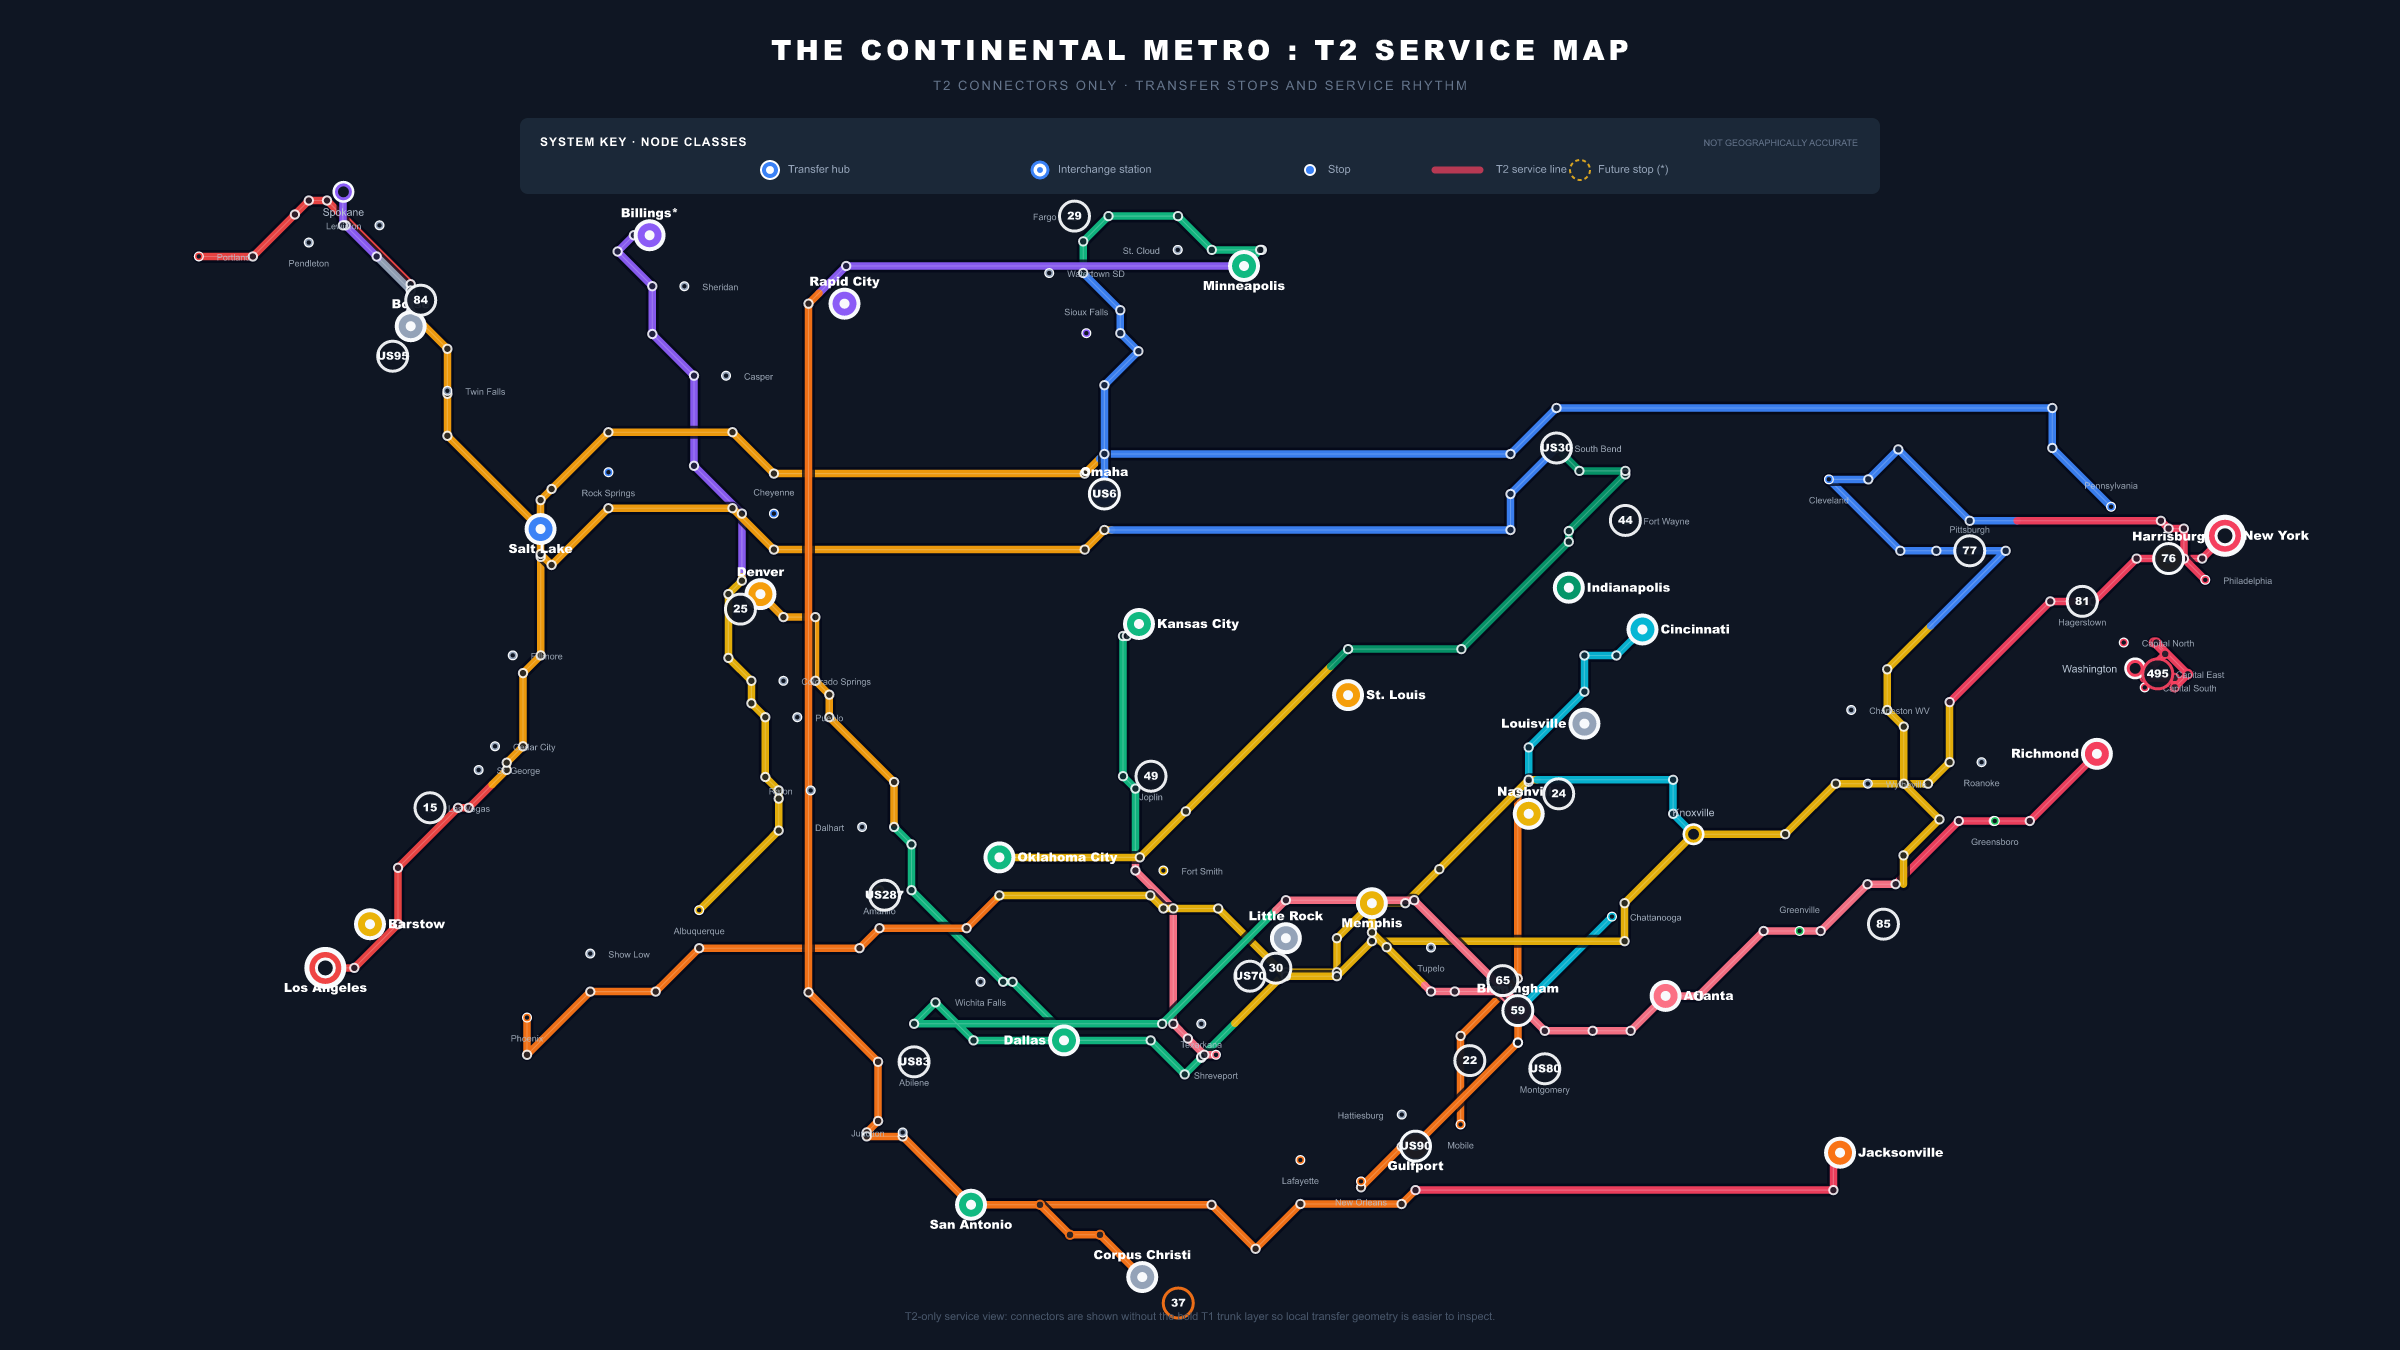
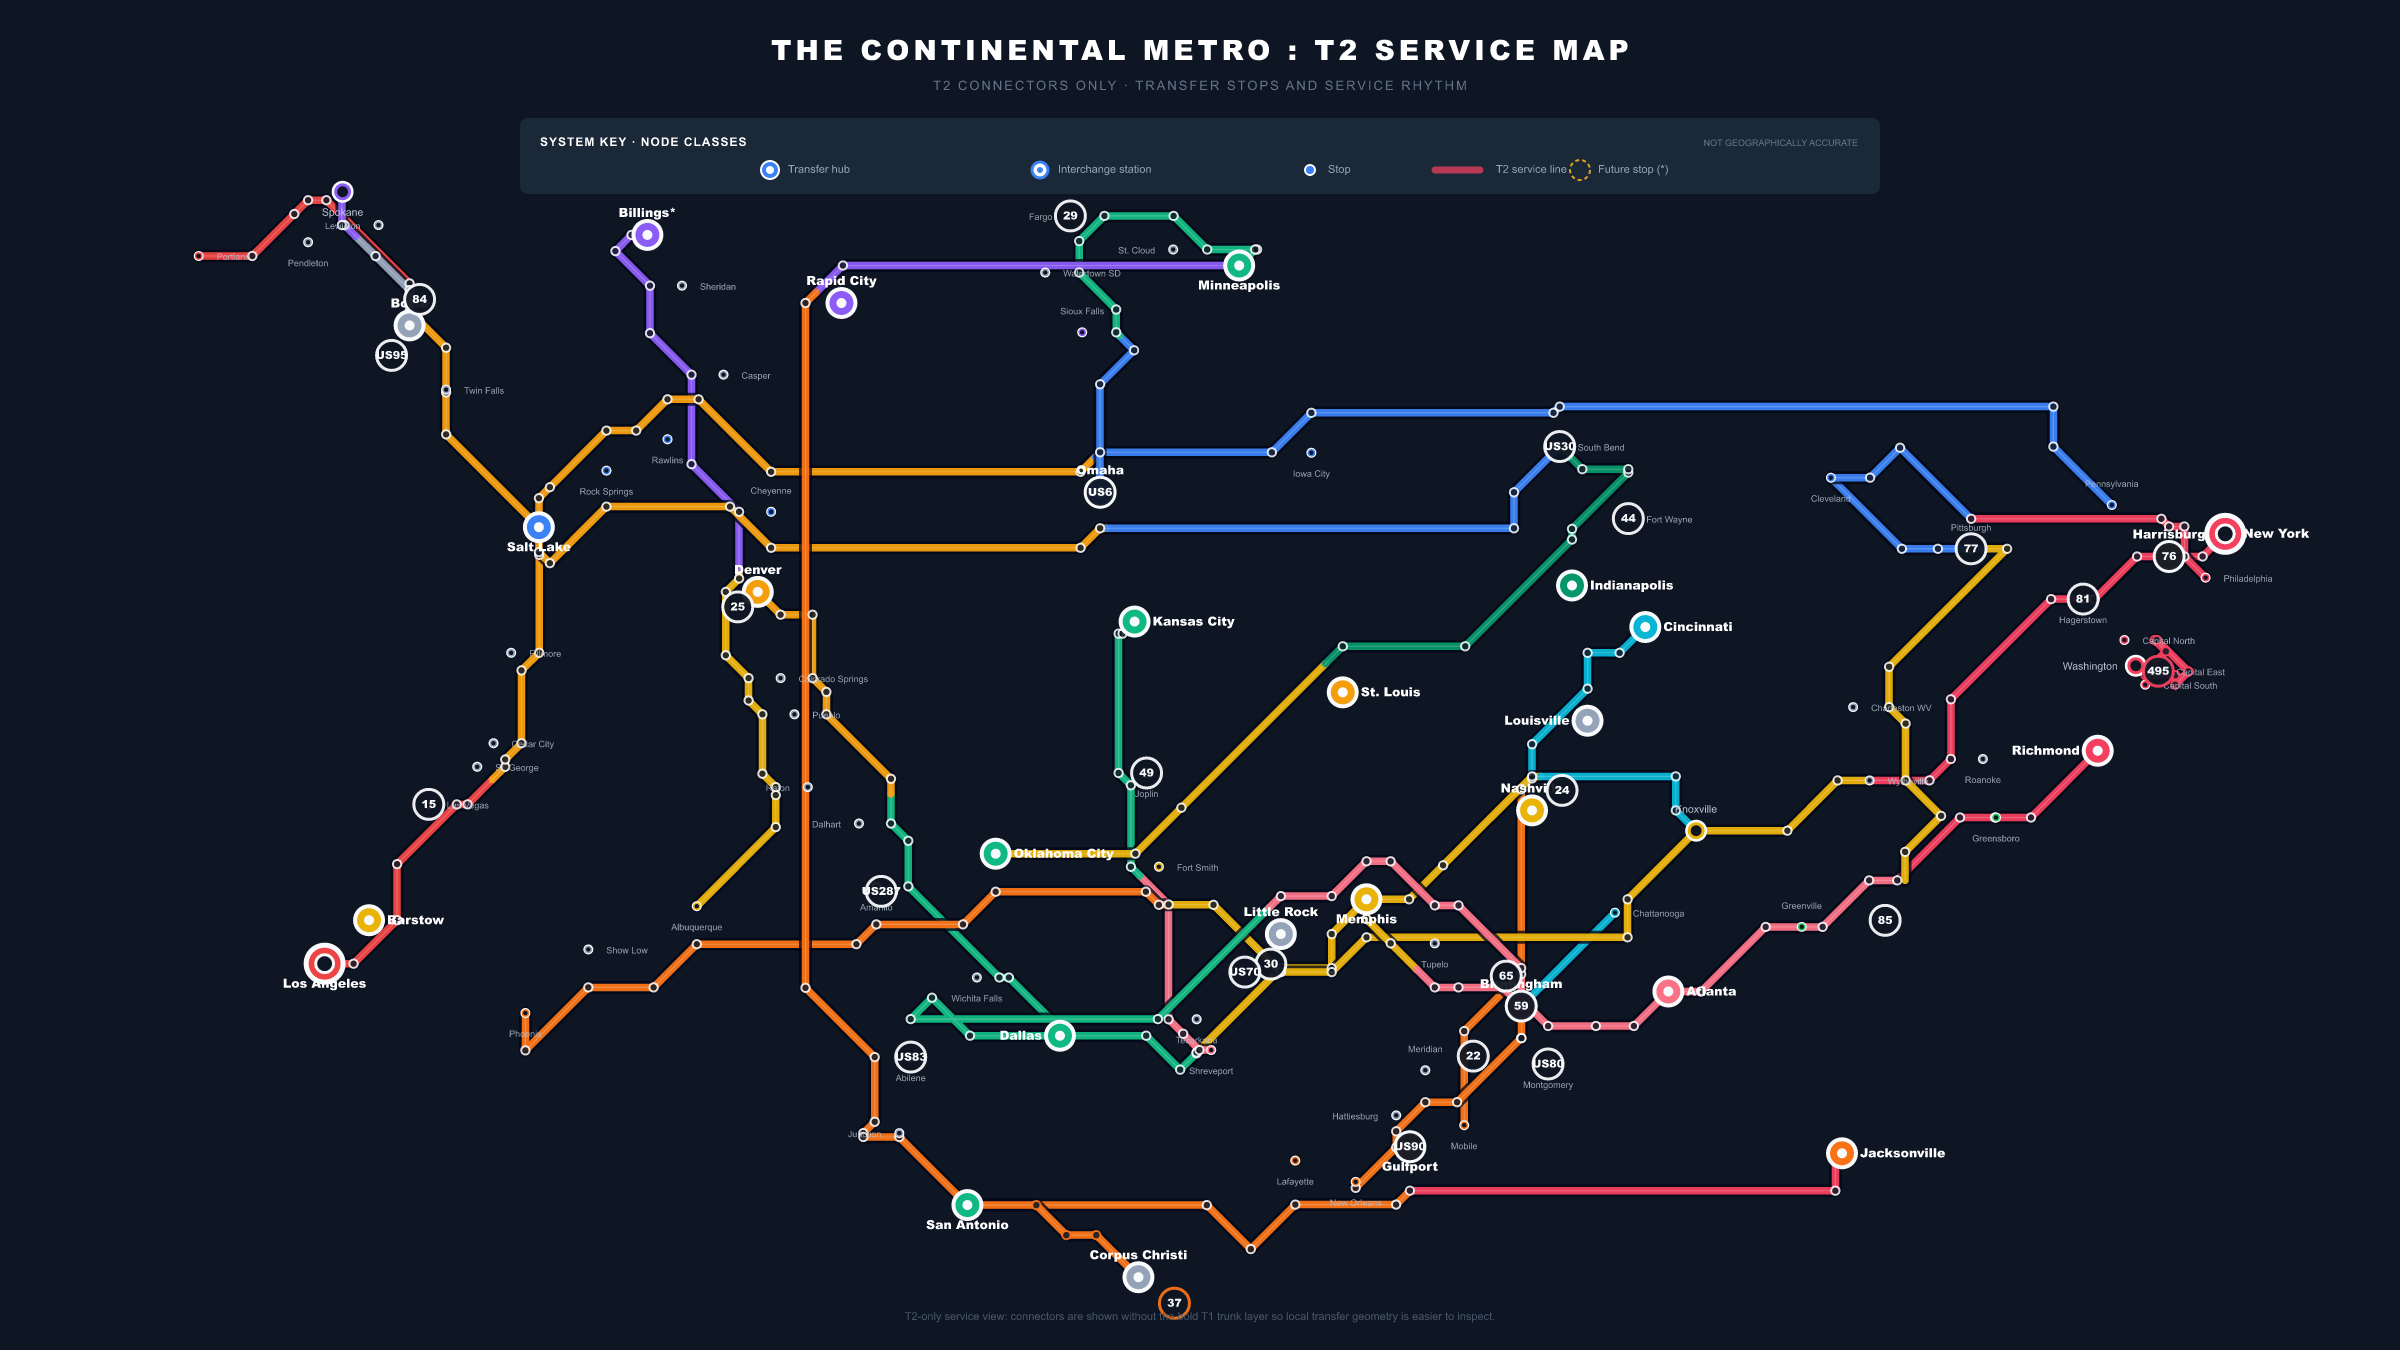
Clean up T2 Beck split anchors and stop rhythm

diff --git a/crates/route-map/src/beck.rs b/crates/route-map/src/beck.rs
@@ -60,6 +60,10 @@ impl BeckStop {
     fn point(&self) -> (f64, f64) {
         (self.x, self.y)
     }
+
+    fn is_transfer_point(&self) -> bool {
+        self.is_hub || self.is_interchange || self.lines.len() >= 2
+    }
 }
 
 #[derive(Debug, Clone)]
@@ -509,6 +513,14 @@ fn beck_stops() -> Vec<BeckStop> {
             960.0,
             &["I-59"],
             LabelDir::Left,
+        ),
+        minor_stop(
+            "MERIDIAN",
+            "Meridian",
+            1320.0,
+            960.0,
+            &["I-59"],
+            LabelDir::Up,
         ),
         minor_stop(
             "TALLAHASSEE",
@@ -1624,6 +1636,7 @@ fn geo_proxy(stop: &BeckStop) -> (f64, f64) {
         "LAFAYETTE" => (30.22, -92.02),
         "NOLA" => (29.95, -90.07),
         "HATTIESBURG" => (31.33, -89.29),
+        "MERIDIAN" => (32.36, -88.70),
         "TALLAHASSEE" => (30.44, -84.28),
         "PANAMA_CITY" => (30.16, -85.66),
         "JAX" => (30.33, -81.66),
@@ -2193,7 +2206,13 @@ fn t2_line_segments(stops: &[BeckStop]) -> Vec<T2LineSegment> {
             "I-59",
             "I-10",
             "I-75",
-            &["NOLA", "HATTIESBURG", "BHM_APPROACH", "CHATTANOOGA"],
+            &[
+                "NOLA",
+                "HATTIESBURG",
+                "MERIDIAN",
+                "BHM_APPROACH",
+                "CHATTANOOGA",
+            ],
             "Birmingham Spur",
             "BHM_APPROACH",
             (0.0, 0.0),
@@ -2275,8 +2294,10 @@ fn t2_line_segments(stops: &[BeckStop]) -> Vec<T2LineSegment> {
             &[
                 "SLC",
                 "ROCK_SPRINGS",
+                "RAWLINS",
                 "CHEYENNE",
                 "OMAHA",
+                "IOWA_CITY",
                 "CHI_APPROACH",
                 "PA_APPROACH",
             ],
@@ -2362,7 +2383,16 @@ fn t2_line_segments(stops: &[BeckStop]) -> Vec<T2LineSegment> {
             "US80",
             "I-35",
             "I-20",
-            &["DAL", "ABILENE", "LITTLE_ROCK", "MONTGOMERY", "ATL"],
+            &[
+                "DAL",
+                "ABILENE",
+                "LITTLE_ROCK",
+                "MEM",
+                "TUPELO",
+                "BHM_APPROACH",
+                "MONTGOMERY",
+                "ATL",
+            ],
             "Old South",
             "MONTGOMERY",
             (0.0, 0.0),
@@ -2530,7 +2560,7 @@ pub fn beck_t2_diagnostics() -> Vec<BeckT2DiagnosticRow> {
                 .iter()
                 .filter(|id| {
                     let stop = stop_by_id(&stops, id);
-                    stop.is_hub || stop.is_interchange
+                    stop.is_transfer_point()
                 })
                 .count();
             let label_density_per_100px = if schematic_length_px > 0.0 {
@@ -2787,17 +2817,26 @@ fn t2_split_anchor_distance(line: &T2LineSegment, stops: &[BeckStop]) -> Option<
 
     let mut walked = 0.0;
     let mut best: Option<T2SplitAnchor> = None;
+    let mut fallback: Option<T2SplitAnchor> = None;
     for index in 1..line.stop_ids.len() - 1 {
         walked += ((line.waypoints[index].0 - line.waypoints[index - 1].0).powi(2)
             + (line.waypoints[index].1 - line.waypoints[index - 1].1).powi(2))
         .sqrt();
         let stop = stop_by_id(stops, line.stop_ids[index]);
-        if !(stop.is_hub || stop.is_interchange) {
-            continue;
-        }
         let fraction = walked / raw_length;
         let offset = (fraction - 0.5).abs();
-        if offset > 0.22 {
+        if offset <= 0.32
+            && fallback
+                .as_ref()
+                .map(|anchor| offset < (anchor.fraction - 0.5).abs())
+                .unwrap_or(true)
+        {
+            fallback = Some(T2SplitAnchor {
+                stop_id: stop.id,
+                fraction,
+            });
+        }
+        if !stop.is_transfer_point() || offset > 0.22 {
             continue;
         }
         let replace = best
@@ -2811,7 +2850,7 @@ fn t2_split_anchor_distance(line: &T2LineSegment, stops: &[BeckStop]) -> Option<
             });
         }
     }
-    best
+    best.or(fallback)
 }
 
 fn unstopped_t1_contacts(line: &T2LineSegment, stops: &[BeckStop]) -> Vec<&'static str> {
@@ -2827,6 +2866,7 @@ fn unstopped_t1_contacts(line: &T2LineSegment, stops: &[BeckStop]) -> Vec<&'stat
             stop.draw
                 && !line_stop_ids.contains(stop.id)
                 && t1_stop_ids.contains(stop.id)
+                && (stop.lines.contains(&line.start_trunk) || stop.lines.contains(&line.end_trunk))
                 && point_on_polyline(stop.point(), &points, 10.0)
         })
         .map(|stop| stop.id)
@@ -4000,7 +4040,7 @@ mod tests {
         assert!(csv.starts_with("corridor,trunk,start_trunk,end_trunk,color_mode,split_anchor"));
         assert!(csv.contains("I-495,I-95,I-95,I-95,single-parent,"));
         assert!(csv.contains("split-parent"));
-        assert!(csv.contains("parallel-spacing-review") || csv.contains("split-anchor-review"));
+        assert!(csv.contains("long-connector-review"));
         assert!(csv.contains("dense-label-review"));
 
         let rows = beck_t2_diagnostics();

diff --git a/GOAL.md b/GOAL.md
@@ -105,3 +105,6 @@ should mean something in the SLA graph.
 - T2 geometry diagnostics now prefer real interchange split anchors, flag T2
   lines that pass near T1 stops without stopping, and identify close parallel
   T2 corridors that need bend/spacing cleanup.
+- T2 cleanup promoted multi-line drawn stops as transfer candidates, falls back
+  split-color breaks to real service stops, and added Meridian/Memphis/Tupelo
+  rhythm on southern T2 services so the stop SLA surface stays below 250 miles.
